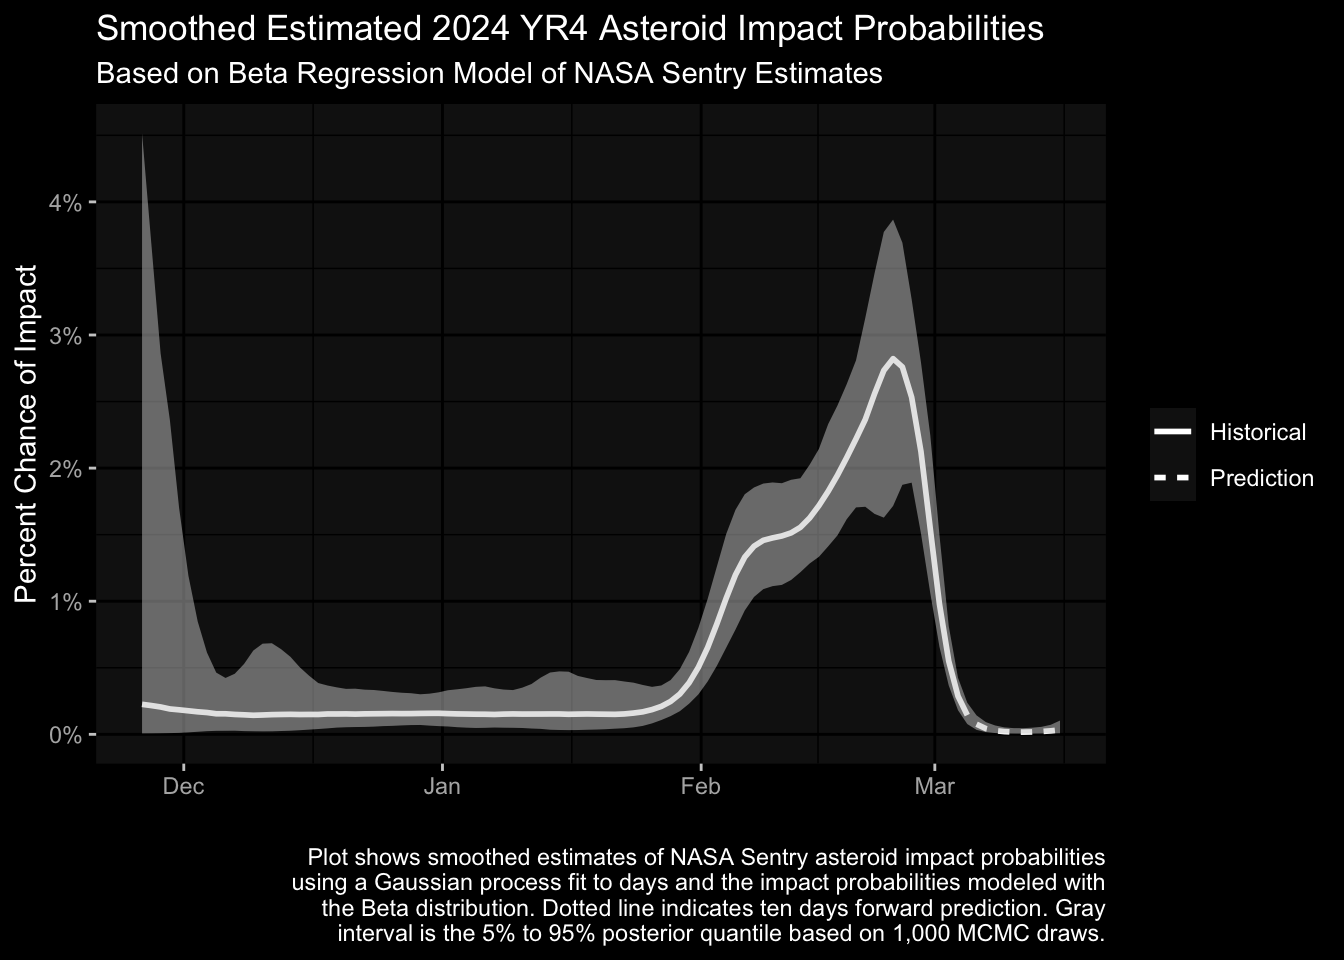
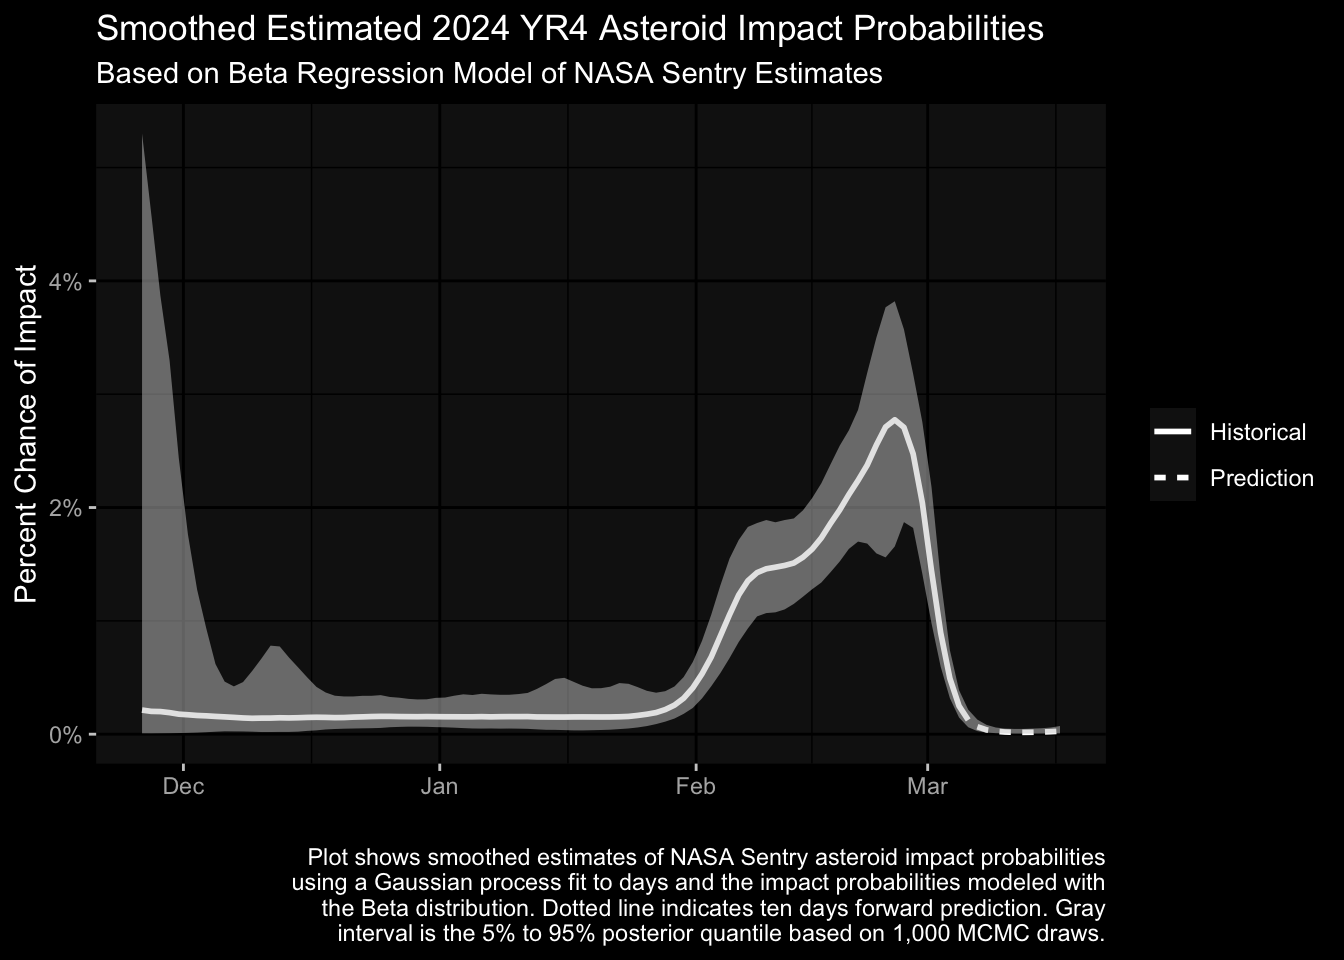
NASA Sentry smoother prediction 2025-03-07

diff --git a/_site/post/nasa_beta/index.html b/_site/post/nasa_beta/index.html
@@ -409,12 +409,12 @@ gtag('config', 'G-BHP1PJ9LEX', { 'anonymize_ip': true});
 <div class="cell-output cell-output-stdout">
 <pre><code>Running MCMC with 2 chains, at most 8 in parallel...
 
-Chain 1 finished in 42.8 seconds.
-Chain 2 finished in 47.0 seconds.
+Chain 1 finished in 25.4 seconds.
+Chain 2 finished in 28.0 seconds.
 
 Both chains finished successfully.
-Mean chain execution time: 44.9 seconds.
-Total execution time: 47.2 seconds.</code></pre>
+Mean chain execution time: 26.7 seconds.
+Total execution time: 28.1 seconds.</code></pre>
 </div>
 <details class="code-fold">
 <summary>Show the code</summary>
@@ -562,7 +562,7 @@ Total execution time: 47.2 seconds.</code></pre>
 </section>
 <section id="current-estimates" class="level2">
 <h2 class="anchored" data-anchor-id="current-estimates">Current Estimates</h2>
-<p>As mentioned above, NASA has released more estimates since February 18th. In this section, I re-fit the model and predict for up to 10 days head using all of their Sentry data going back to November 2024. I will keep updating this section on a daily basis as more data comes in. The estimates below are current as of <strong>Thursday, March 06, 2025</strong>.</p>
+<p>As mentioned above, NASA has released more estimates since February 18th. In this section, I re-fit the model and predict for up to 10 days head using all of their Sentry data going back to November 2024. I will keep updating this section on a daily basis as more data comes in. The estimates below are current as of <strong>Friday, March 07, 2025</strong>.</p>
 <p>This code fits the model to the current data:</p>
 <div class="cell" data-layout-align="center">
 <details class="code-fold">
@@ -602,12 +602,12 @@ Total execution time: 47.2 seconds.</code></pre>
 <div class="cell-output cell-output-stdout">
 <pre><code>Running MCMC with 2 chains, at most 8 in parallel...
 
-Chain 2 finished in 32.7 seconds.
-Chain 1 finished in 38.5 seconds.
+Chain 1 finished in 22.7 seconds.
+Chain 2 finished in 25.1 seconds.
 
 Both chains finished successfully.
-Mean chain execution time: 35.6 seconds.
-Total execution time: 38.6 seconds.</code></pre>
+Mean chain execution time: 23.9 seconds.
+Total execution time: 25.2 seconds.</code></pre>
 </div>
 </div>
 <p>And here are the model predictions with 10 days ahead plus fitted estimates to all previous NASA Sentry predictions:</p>
